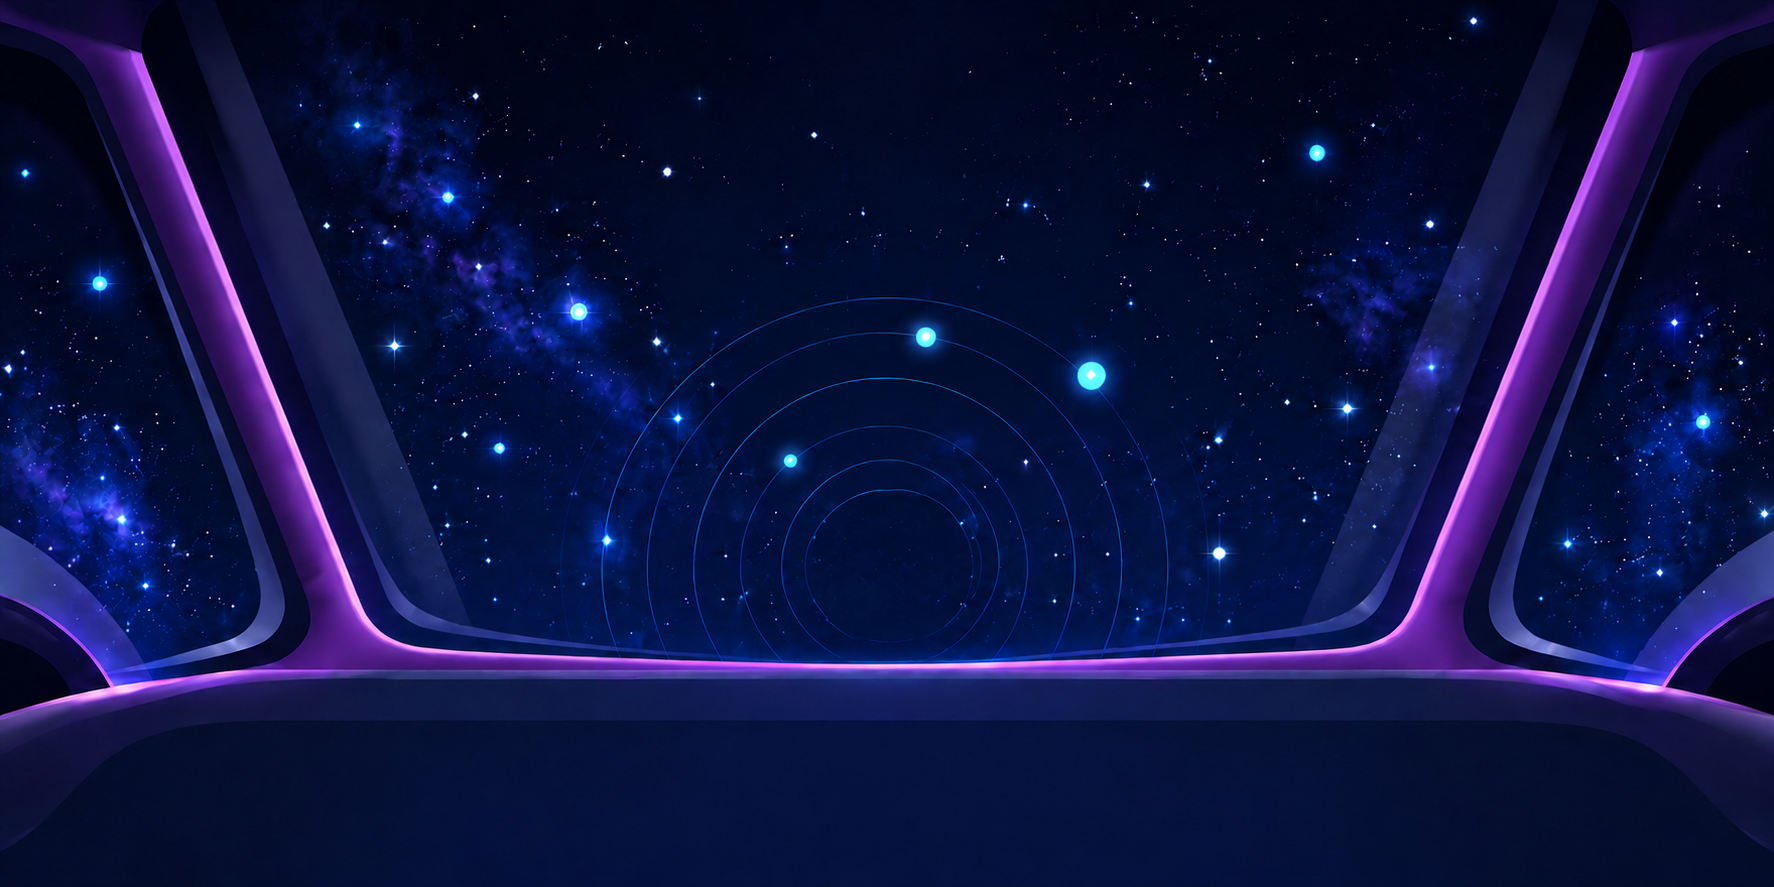
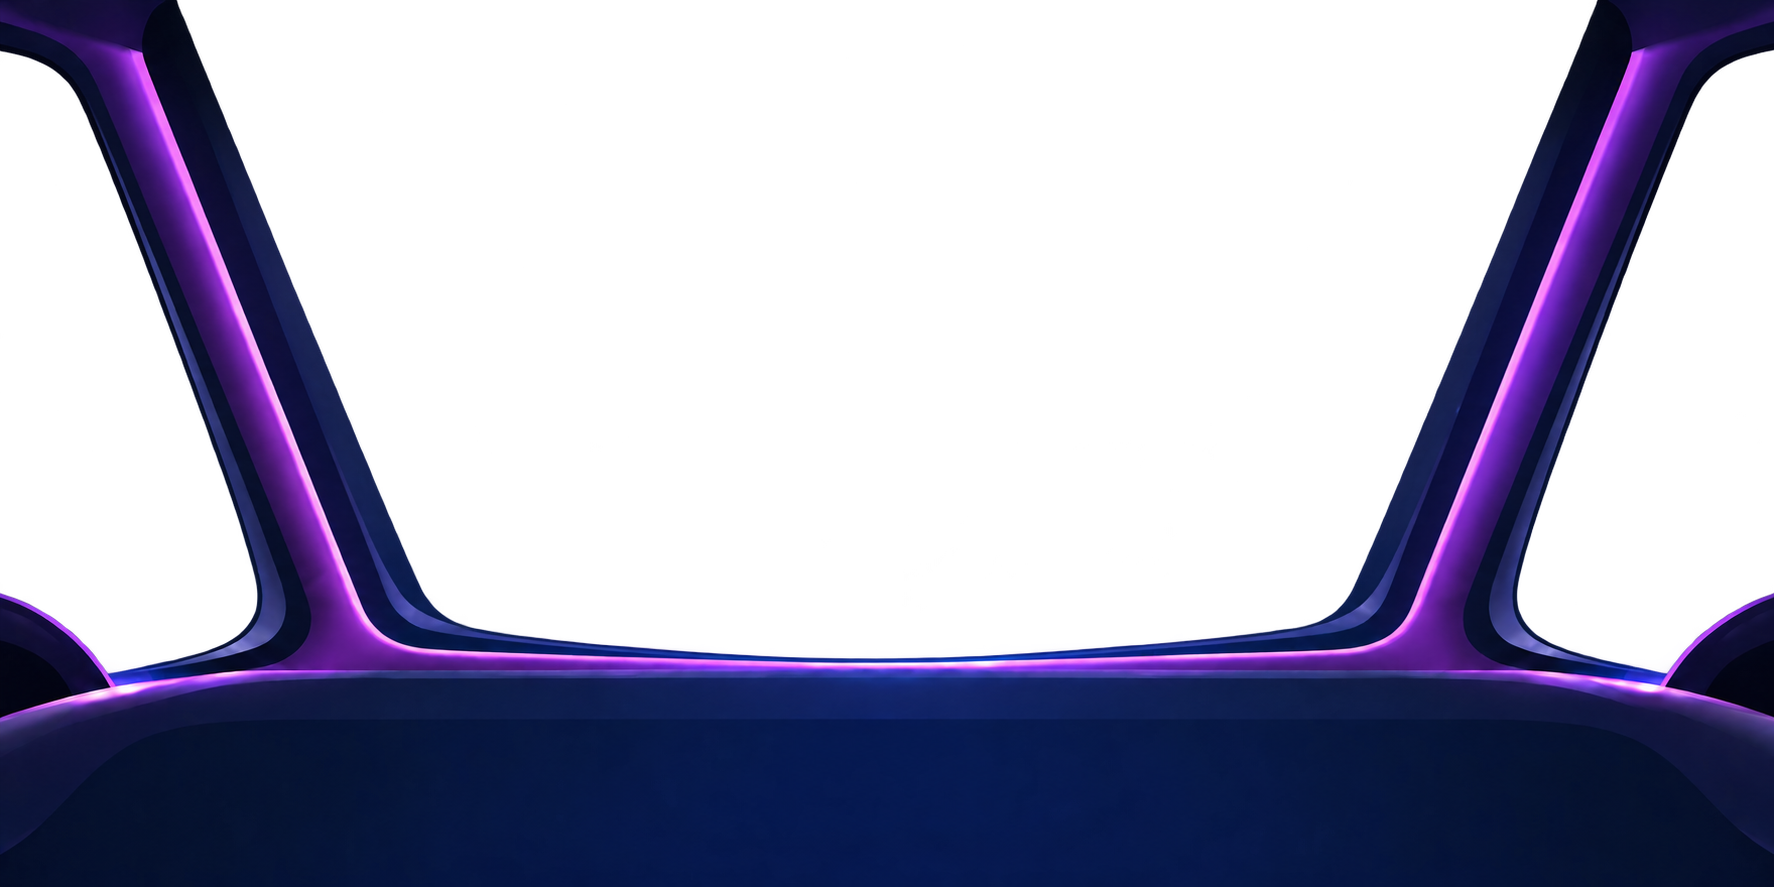
Add Purple-Lit Cockpit Frame overlay to Command Center top portion
When Command Center opens, the Purple-Lit Cockpit Frame Overlay image now
displays in the windshield area (top ~29% of console) above the instrument
clusters and list screen.

diff --git a/lib/widgets/momentum/command_center_console.dart b/lib/widgets/momentum/command_center_console.dart
@@ -156,6 +156,19 @@ class _CommandCenterConsoleState extends State<CommandCenterConsole>
               ),
             ),
           ),
+          // Purple-Lit Cockpit Frame overlay in the top windshield area
+          Positioned(
+            left: 0,
+            right: 0,
+            top: 0,
+            height: h * 0.29,
+            child: IgnorePointer(
+              child: Image.asset(
+                'assets/momentum/cockpit_frame.png',
+                fit: BoxFit.cover,
+              ),
+            ),
+          ),
           // Back — closes the console and brings the rocket back.
           Positioned(
             left: u * 0.05,
